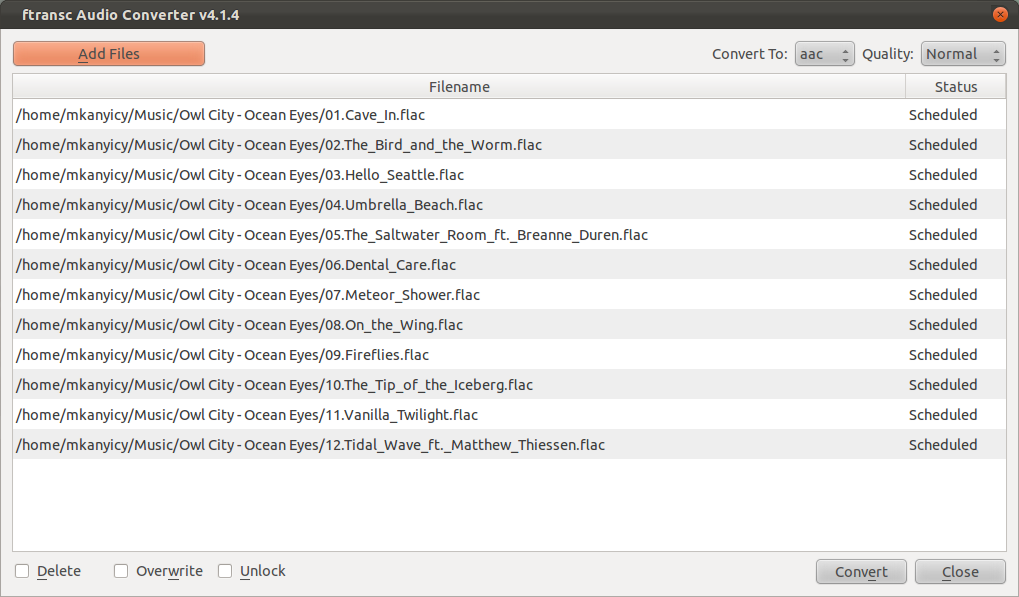
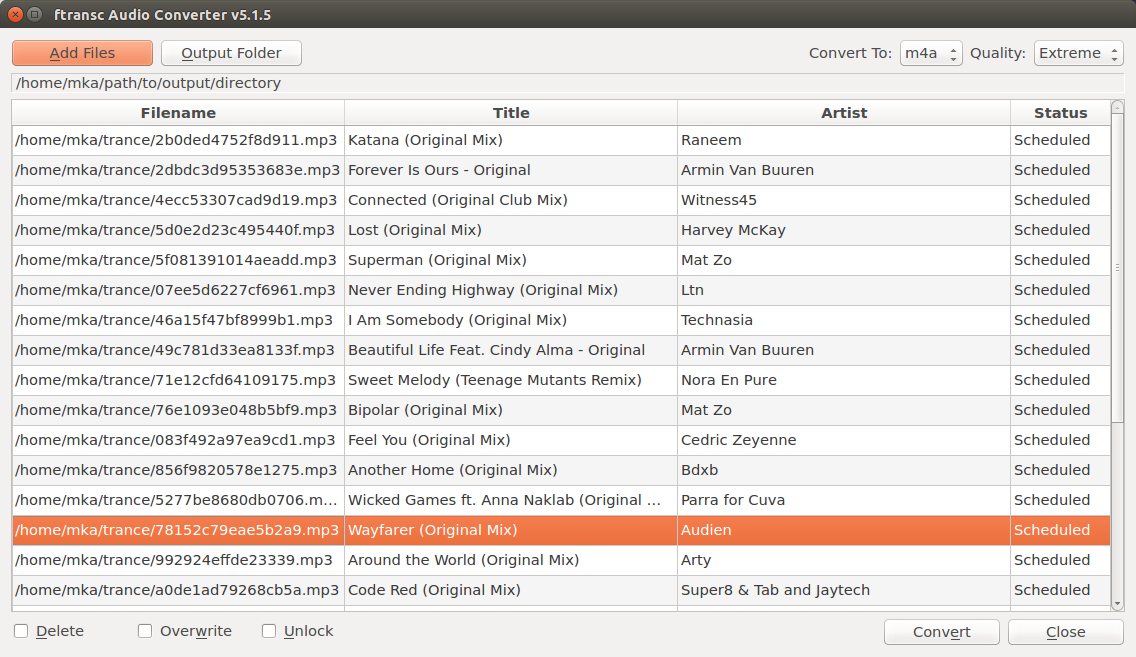
added artist and title columns to ftransc_qt

Changed region(s): [[0.0, 0.0, 1.0, 1.0]]

diff --git a/src/ftransc_qt.py b/src/ftransc_qt.py
@@ -4,7 +4,7 @@ import os
 import sys
 from PyQt4 import QtCore, QtGui
 
-from ftransc.utils import m3u_extract, check_deps
+from ftransc.utils import m3u_extract, check_deps, metadata
 
 from ftransc.utils.constants import VERSION
 
@@ -74,8 +74,7 @@ class Window(QtGui.QDialog):
         self.setWindowTitle("ftransc Audio Converter v%s" % VERSION)
         self.resize(700, 400)
 
-
-        self.connect(cancel_button, 
+        self.connect(cancel_button,
                      QtCore.SIGNAL('clicked()'), 
                      QtGui.qApp, 
                      QtCore.SLOT('quit()'))
@@ -84,7 +83,6 @@ class Window(QtGui.QDialog):
             self.cmdlinefiles = cmdlinefiles
             self.add_files(noninteractive=True)
             self.cmdlinefiles = None
-
 
     def add_files(self, noninteractive=False):
         if noninteractive:
@@ -100,17 +98,18 @@ class Window(QtGui.QDialog):
                                                        filt)
 
         for i in files:
-            fname = QtGui.QTableWidgetItem(i)
-            status = QtGui.QTableWidgetItem('Scheduled')
+            tags = {k: v if v is not None else '' for k, v in metadata.MetaTag(unicode(i)).tags.iteritems()}
             row = self.filesTable.rowCount()
             self.filesTable.insertRow(row)
-            self.filesTable.setItem(row, 0, fname)
-            self.filesTable.setItem(row, 1, status)
+            self.filesTable.setItem(row, 3, QtGui.QTableWidgetItem('Scheduled'))
+            self.filesTable.setItem(row, 2, QtGui.QTableWidgetItem(tags['artist']))
+            self.filesTable.setItem(row, 1, QtGui.QTableWidgetItem(tags['title']))
+            self.filesTable.setItem(row, 0, QtGui.QTableWidgetItem(i))
 
     def browse(self):
         folder = QtGui.QFileDialog.getExistingDirectory(self,
-                                                       'Add output folder',
-                                                      QtCore.QDir.currentPath())
+                                                        'Add output folder',
+                                                        QtCore.QDir.currentPath())
         if folder is not None or folder != '':
             self.foldername.setText(folder)
 
@@ -120,12 +119,12 @@ class Window(QtGui.QDialog):
         audio_quality = str(self.quality_combobox.currentText()).lower()
         for row in xrange(row_count):
             status = QtGui.QTableWidgetItem('Scheduled')
-            self.filesTable.setItem(0, 1, status)
+            self.filesTable.setItem(0, 3, status)
             self.filesTable.repaint()
         for row in xrange(row_count):
             filename = self.filesTable.item(0, 0).text()
             status = QtGui.QTableWidgetItem('Converting...')
-            self.filesTable.setItem(0, 1, status)
+            self.filesTable.setItem(0, 3, status)
             self.filesTable.repaint()
             self.filesTable.repaint()
             
@@ -145,14 +144,15 @@ class Window(QtGui.QDialog):
             self.filesTable.removeRow(0)
             self.filesTable.repaint()
 
-
     def createFilesTable(self):
-        self.filesTable = QtGui.QTableWidget(0, 2) 
+        self.filesTable = QtGui.QTableWidget(0, 4)
         self.filesTable.setSelectionBehavior(QtGui.QAbstractItemView.SelectRows)
-        self.filesTable.setHorizontalHeaderLabels(("Filename", "Status"))
+        self.filesTable.setHorizontalHeaderLabels(["Filename", "Title", "Artist", "Status"])
         self.filesTable.horizontalHeader().setResizeMode(0, QtGui.QHeaderView.Stretch)
+        self.filesTable.horizontalHeader().setResizeMode(1, QtGui.QHeaderView.Stretch)
+        self.filesTable.horizontalHeader().setResizeMode(2, QtGui.QHeaderView.Stretch)
         self.filesTable.verticalHeader().hide()
-        self.filesTable.setShowGrid(False)
+        self.filesTable.setShowGrid(True)
         self.filesTable.setAlternatingRowColors(True)
         self.filesTable.setUpdatesEnabled(True)
         self.filesTable.keyPressEvent = self.delete_items
